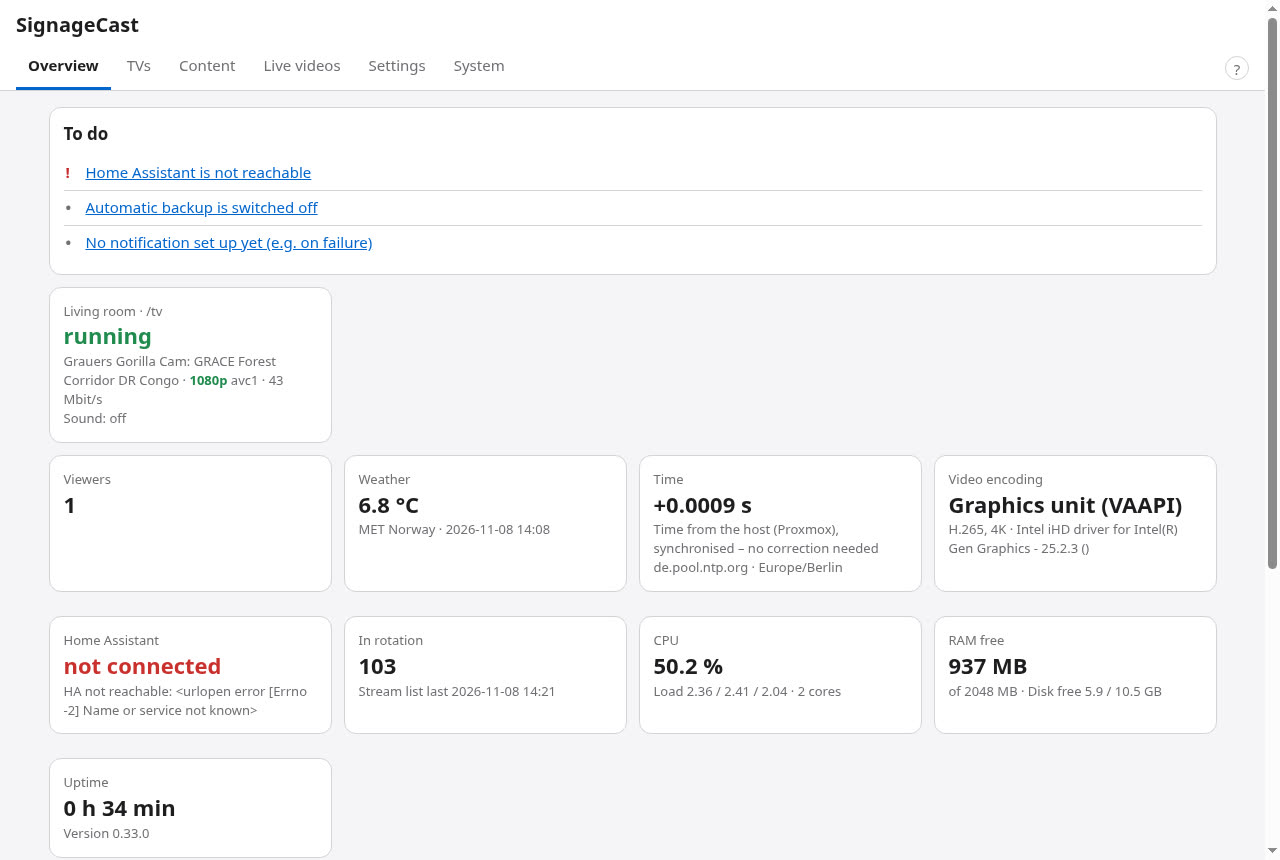
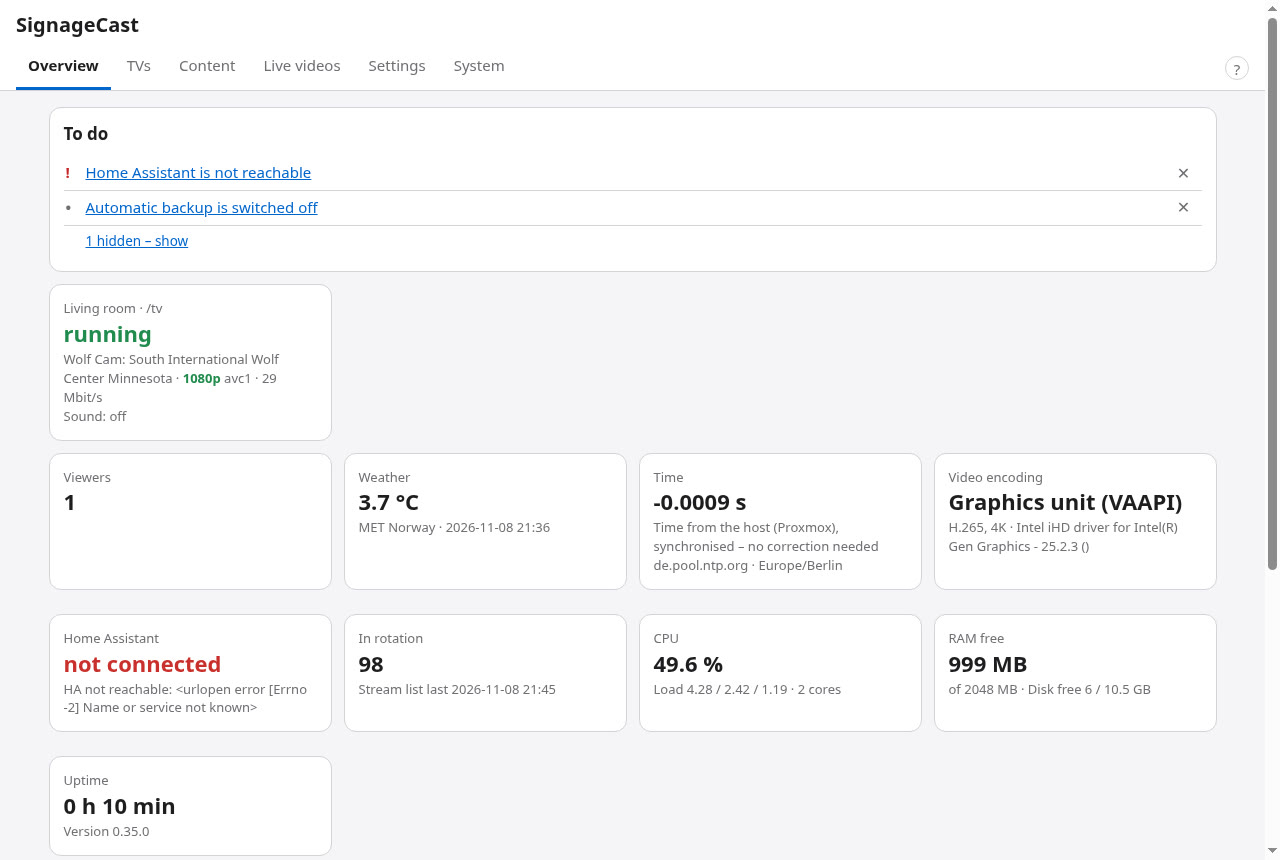
Tour: Übersicht mit ausblendbaren Einträgen (0.35)
Claude-Session: https://claude.ai/code/session_01LNDhmfSQXqarshduJ2BAH1

diff --git a/docs/TOUR.de.md b/docs/TOUR.de.md
@@ -2,7 +2,7 @@
 
 Ein Rundgang durch SignageCast: was der Fernseher zeigt und wie du alles im Browser einstellst. Alle Bilder stammen
 aus einer Demo-Installation (Standort Berlin, öffentliche bzw. erfundene Beispieldaten, kein Home Assistant
-angebunden). Die Verwaltung zeigt Version 0.33 (Player-Karte 0.34) mit den sechs Bereichen Übersicht, Fernseher, Inhalte, Live-Videos,
+angebunden). Die Verwaltung zeigt Version 0.33 (Player-Karte 0.34, Übersicht 0.35) mit den sechs Bereichen Übersicht, Fernseher, Inhalte, Live-Videos,
 Einstellungen und System.
 
 **🇬🇧 [English version](TOUR.md)**

diff --git a/docs/TOUR.md b/docs/TOUR.md
@@ -2,7 +2,7 @@
 
 A walk through SignageCast: what the TV shows and how you set it up in the browser. All pictures are from a demo
 installation (location Berlin, public example data, no Home Assistant connected). The admin pictures show version
-0.33 (player card 0.34) with the six areas Overview, TVs, Content, Live videos, Settings and System.
+0.33 (player card 0.34, overview 0.35) with the six areas Overview, TVs, Content, Live videos, Settings and System.
 
 **🇩🇪 [Deutsche Version mit deutschen Bildern](TOUR.de.md)**
 
